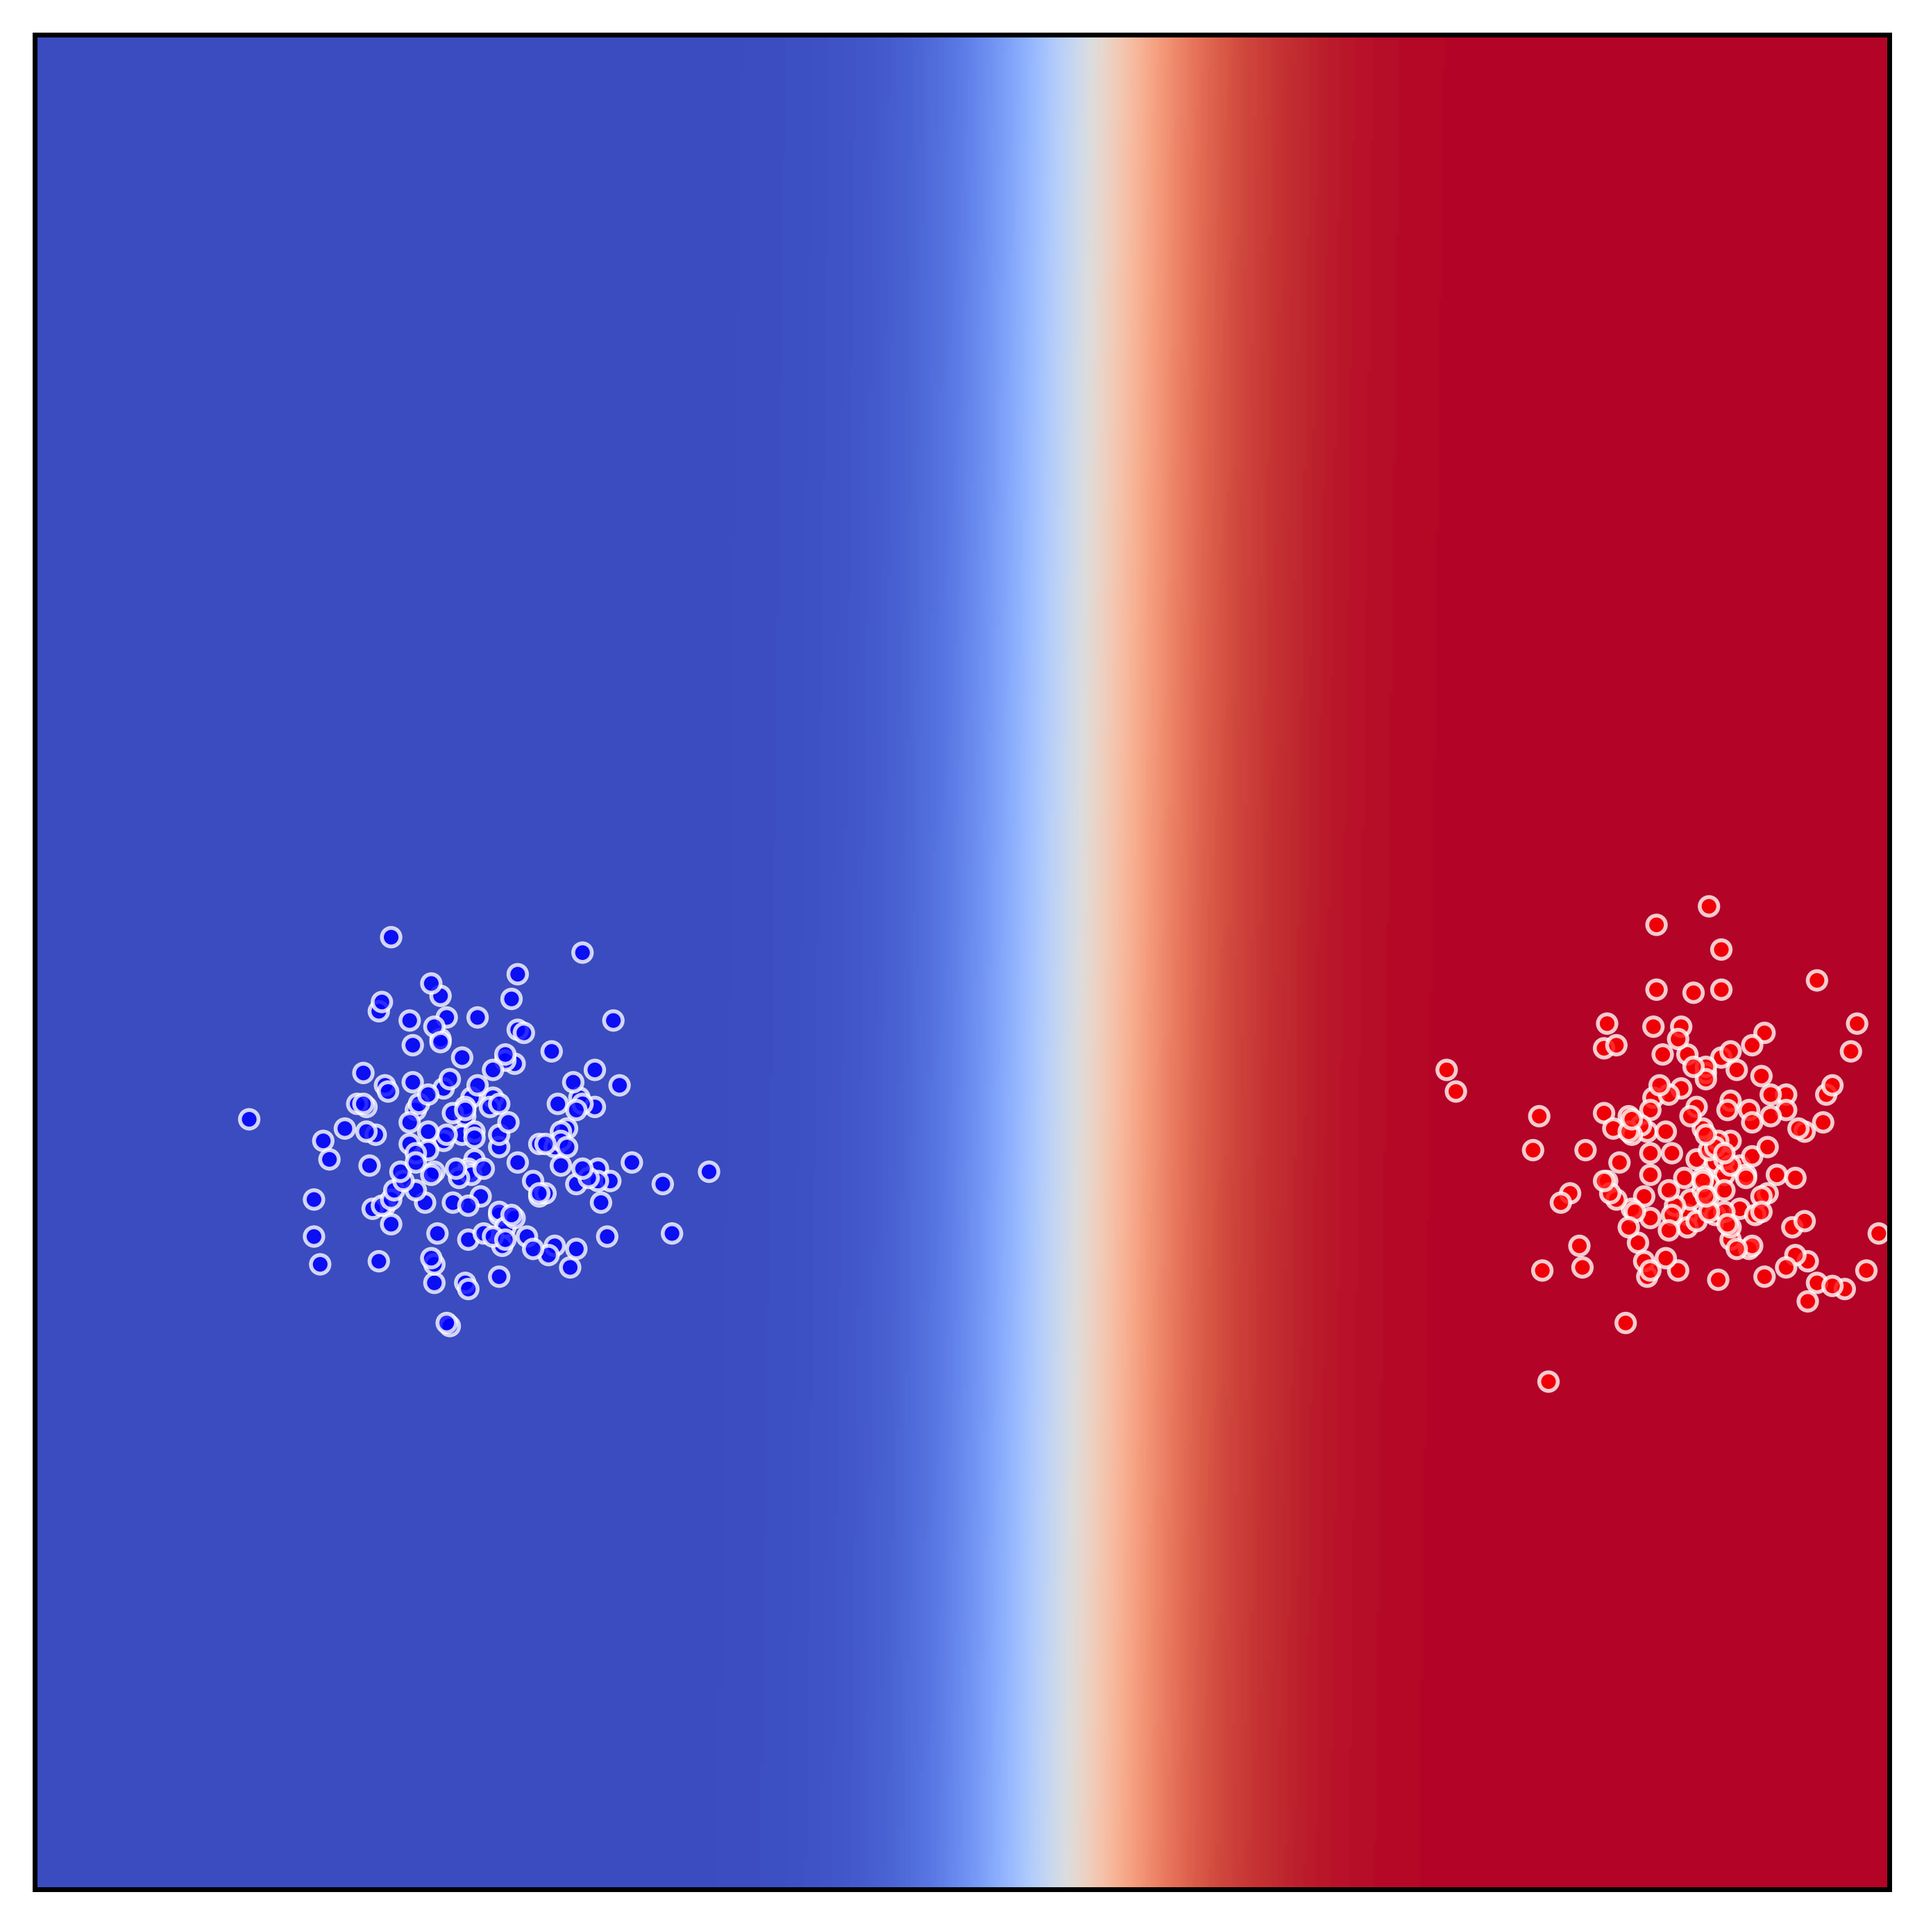
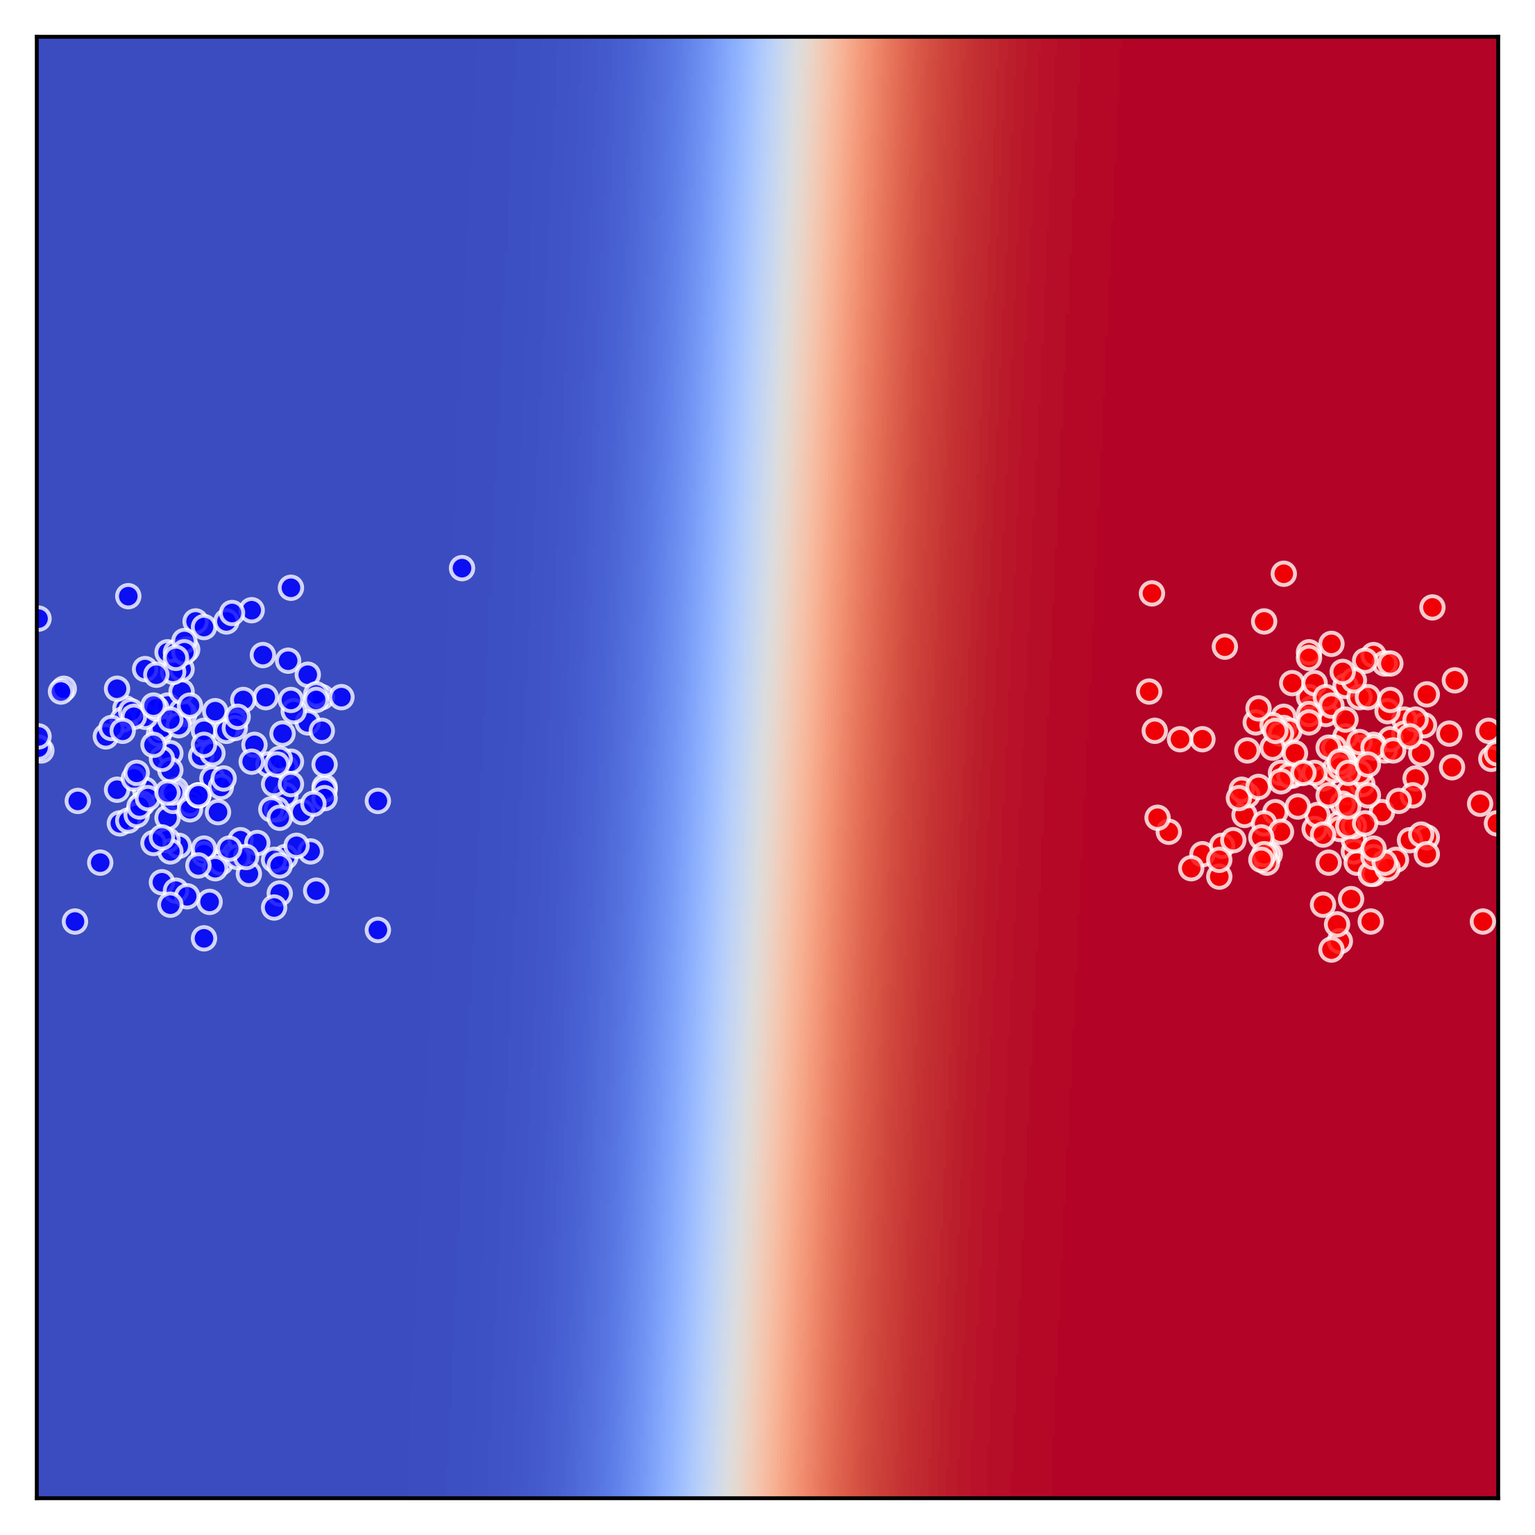
Fix seed

diff --git a/model/plotting.py b/model/plotting.py
@@ -9,7 +9,6 @@ import matplotlib
 import matplotlib.pyplot as plt
 from matplotlib.patches import Circle
 plt.switch_backend('agg')
-from PIL import Image
 
 
 def plot_points(X, Y, epoch, mode):
@@ -41,8 +40,8 @@ def plot_points(X, Y, epoch, mode):
 
 def plot_decision_boundary(model, X_, Y_, epoch, mode):
     fig, ax = plt.subplots()
-    x_lower, x_upper = -1.5, 1.5
-    y_lower, y_upper = -1, 2
+    x_lower, x_upper = -1.1, 1.5
+    y_lower, y_upper = -1.1, 1.5
     interval = 0.005
     x_axis = np.arange(x_lower, x_upper+interval/10, interval)
     y_axis = np.arange(y_lower, y_upper+interval/10, interval)[::-1]
@@ -80,9 +79,9 @@ def plot_decision_boundary(model, X_, Y_, epoch, mode):
             if j < x[1]:
                 break
         if y == 0:
-            ax.add_patch(Circle((col_idx, row_idx), 3, fill=True, facecolor='b', edgecolor='w', linewidth=0.8, alpha=0.8))
+            ax.add_patch(Circle((col_idx, row_idx), 4, fill=True, facecolor='b', edgecolor='w', linewidth=0.8, alpha=0.8))
         else:
-            ax.add_patch(Circle((col_idx, row_idx), 3, fill=True, facecolor='r', edgecolor='w', linewidth=0.8, alpha=0.8))
+            ax.add_patch(Circle((col_idx, row_idx), 4, fill=True, facecolor='r', edgecolor='w', linewidth=0.8, alpha=0.8))
 
     im = ax.imshow(colors, cmap='coolwarm')
 

diff --git a/src_c07/main.py b/src_c07/main.py
@@ -18,7 +18,6 @@ import matplotlib
 import matplotlib.pyplot as plt
 from matplotlib.patches import Circle
 plt.switch_backend('agg')
-from PIL import Image
 from shutil import copyfile
 
 
@@ -93,6 +92,7 @@ if __name__ == '__main__':
     parser.add_argument('--epoch', type=int, default=1000)
     parser.add_argument('--lr', type=float, default=0.01)
     parser.add_argument('--gamma', type=float, default=0)
+    parser.add_argument('--seed', type=int, default=137)
 
     parser.set_defaults(DA_for_train=True)
     parser.add_argument('--momentum', default=0.9, type=float)
@@ -102,6 +102,9 @@ if __name__ == '__main__':
     args = parser.parse_args()
     mode = args.mode
     epoch = args.epoch
+
+    torch.manual_seed(args.seed)
+    np.random.seed(args.seed)
 
     data = np.load('../datasets/actual_data.npz')
     train_data, train_label = data['train_data'], data['train_label']

diff --git a/src_b00/main.py b/src_b00/main.py
@@ -18,7 +18,6 @@ import matplotlib
 import matplotlib.pyplot as plt
 from matplotlib.patches import Circle
 plt.switch_backend('agg')
-from PIL import Image
 from shutil import copyfile
 
 
@@ -93,6 +92,7 @@ if __name__ == '__main__':
     parser.add_argument('--epoch', type=int, default=100)
     parser.add_argument('--lr', type=float, default=0.01)
     parser.add_argument('--gamma', type=float, default=0)
+    parser.add_argument('--seed', type=int, default=137)
 
     parser.set_defaults(DA_for_train=False)
     parser.add_argument('--momentum', default=0, type=float)
@@ -102,6 +102,9 @@ if __name__ == '__main__':
     args = parser.parse_args()
     mode = args.mode
     epoch = args.epoch
+
+    torch.manual_seed(args.seed)
+    np.random.seed(args.seed)
 
     data = np.load('../datasets/actual_data.npz')
     train_data, train_label = data['train_data'], data['train_label']

diff --git a/src_a00/main.py b/src_a00/main.py
@@ -18,7 +18,6 @@ import matplotlib
 import matplotlib.pyplot as plt
 from matplotlib.patches import Circle
 plt.switch_backend('agg')
-from PIL import Image
 from shutil import copyfile
 
 
@@ -93,6 +92,7 @@ if __name__ == '__main__':
     parser.add_argument('--epoch', type=int, default=50)
     parser.add_argument('--lr', type=float, default=0.01)
     parser.add_argument('--gamma', type=float, default=0)
+    parser.add_argument('--seed', type=int, default=137)
 
     parser.set_defaults(DA_for_train=False)
     parser.add_argument('--momentum', default=0, type=float)
@@ -102,6 +102,9 @@ if __name__ == '__main__':
     args = parser.parse_args()
     mode = args.mode
     epoch = args.epoch
+
+    torch.manual_seed(args.seed)
+    np.random.seed(args.seed)
 
     data = np.load('../datasets/actual_data.npz')
     train_data, train_label = data['train_data'], data['train_label']

diff --git a/src_b00/pre_train.py b/src_b00/pre_train.py
@@ -18,7 +18,6 @@ import matplotlib
 import matplotlib.pyplot as plt
 from matplotlib.patches import Circle
 plt.switch_backend('agg')
-from PIL import Image
 from shutil import copyfile
 
 
@@ -113,11 +112,15 @@ if __name__ == '__main__':
     parser.set_defaults(DA_for_train=False)
     parser.add_argument('--momentum', default=0, type=float)
     parser.add_argument('--weight-decay', default=0, type=float)
+    parser.add_argument('--seed', type=int, default=137)
 
     plt.figure(figsize=(8, 4))
     args = parser.parse_args()
     mode = args.mode
     epoch = args.epoch
+
+    torch.manual_seed(args.seed)
+    np.random.seed(args.seed)
 
     data = np.load('../datasets/confusion_data.npz')
     train_data, train_label = data['train_data'], data['train_label']
